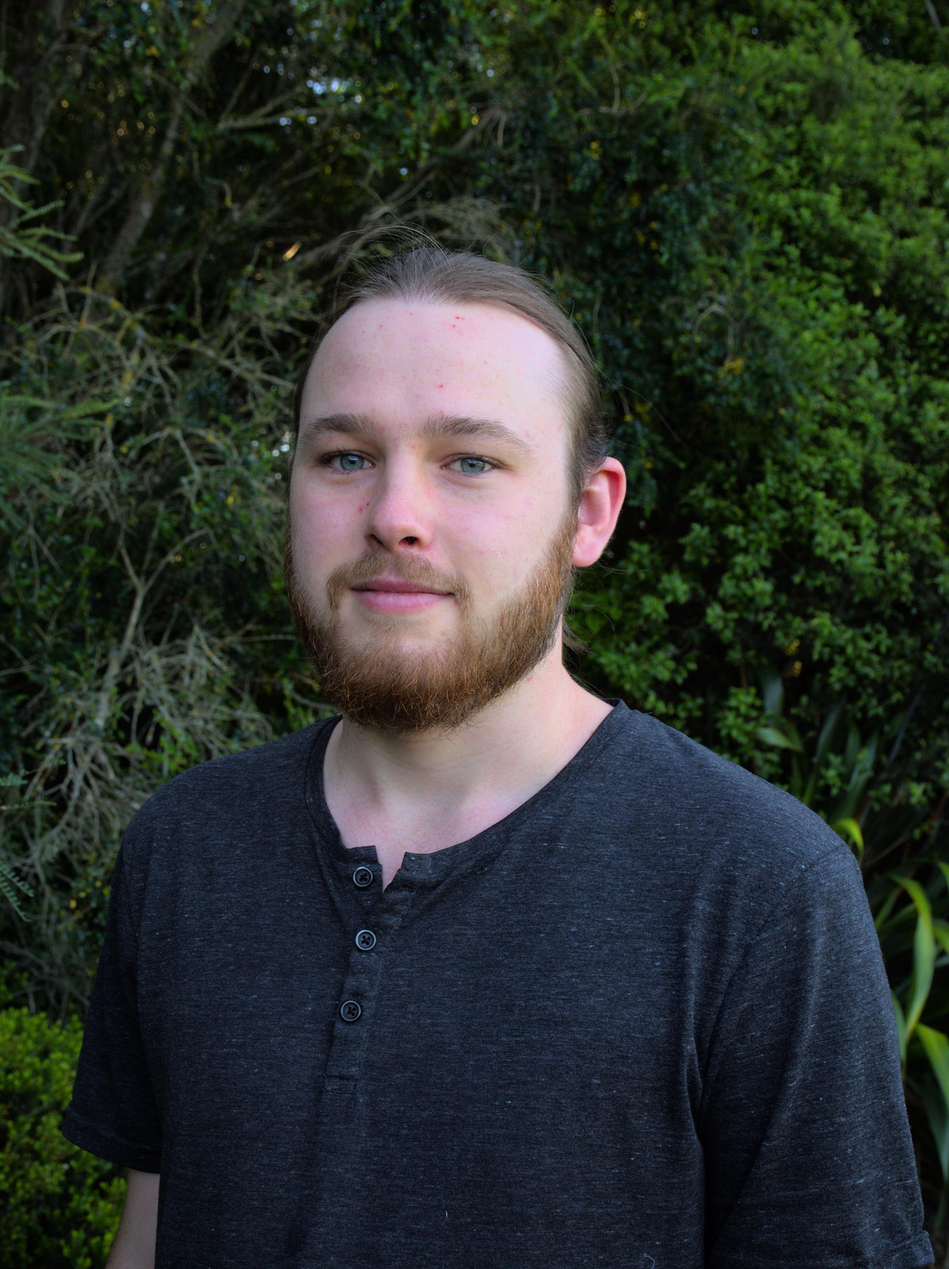
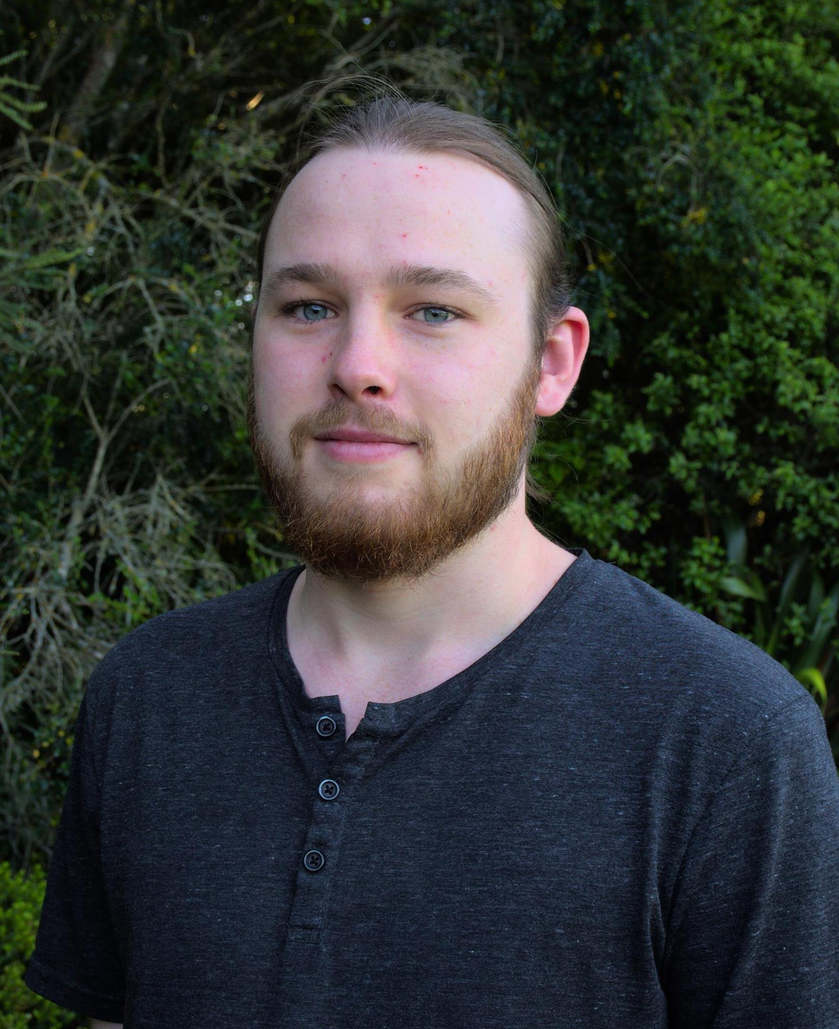
custom button theme

diff --git a/personal-site/src/components/App.css b/personal-site/src/components/App.css
@@ -4,14 +4,28 @@
 
   display: flex;
   flex-direction: column;
+
+  background-color: var(--theme-background);
   
   font-family:'Lucida Sans', 'Lucida Sans Regular', 'Lucida Grande', 'Lucida Sans Unicode', Geneva, Verdana, sans-serif;
   font-weight: 400;
   font-size: 1.2em;
 }
 
+.App button
+{
+  background-color: transparent;
+  border: none;
+}
+
+.App button:hover
+{
+  background-color: var(--theme-link-hover);
+}
+
 .Theme
 {
+  --theme-background: #FAFAFA;
   --theme-text: #222222;
   --theme-link-active: #F5F5F5;
   --theme-link-hover: #F0F0F0;

diff --git a/personal-site/src/components/Pages/Home.css b/personal-site/src/components/Pages/Home.css
@@ -15,7 +15,7 @@
     width: 90%;
     max-width: 100%;
 
-    clip-path: ellipse(45% 40% at 47%);
+    clip-path: ellipse(50% 50%);
 }
 
 @media (min-width: 600px) 
@@ -29,7 +29,7 @@
     
     .Home-TextContainer
     {
-        margin: 5em 0 0 0;
+        margin: 1em 0 0 0;
     }
 
     .Home > img

diff --git a/personal-site/src/components/Pages/AboutMe.css b/personal-site/src/components/Pages/AboutMe.css
@@ -16,6 +16,7 @@
 
     width: 25%;
     max-width: 25em;
+    min-width: 10em;
 
     clip-path: circle(50%);
 }
